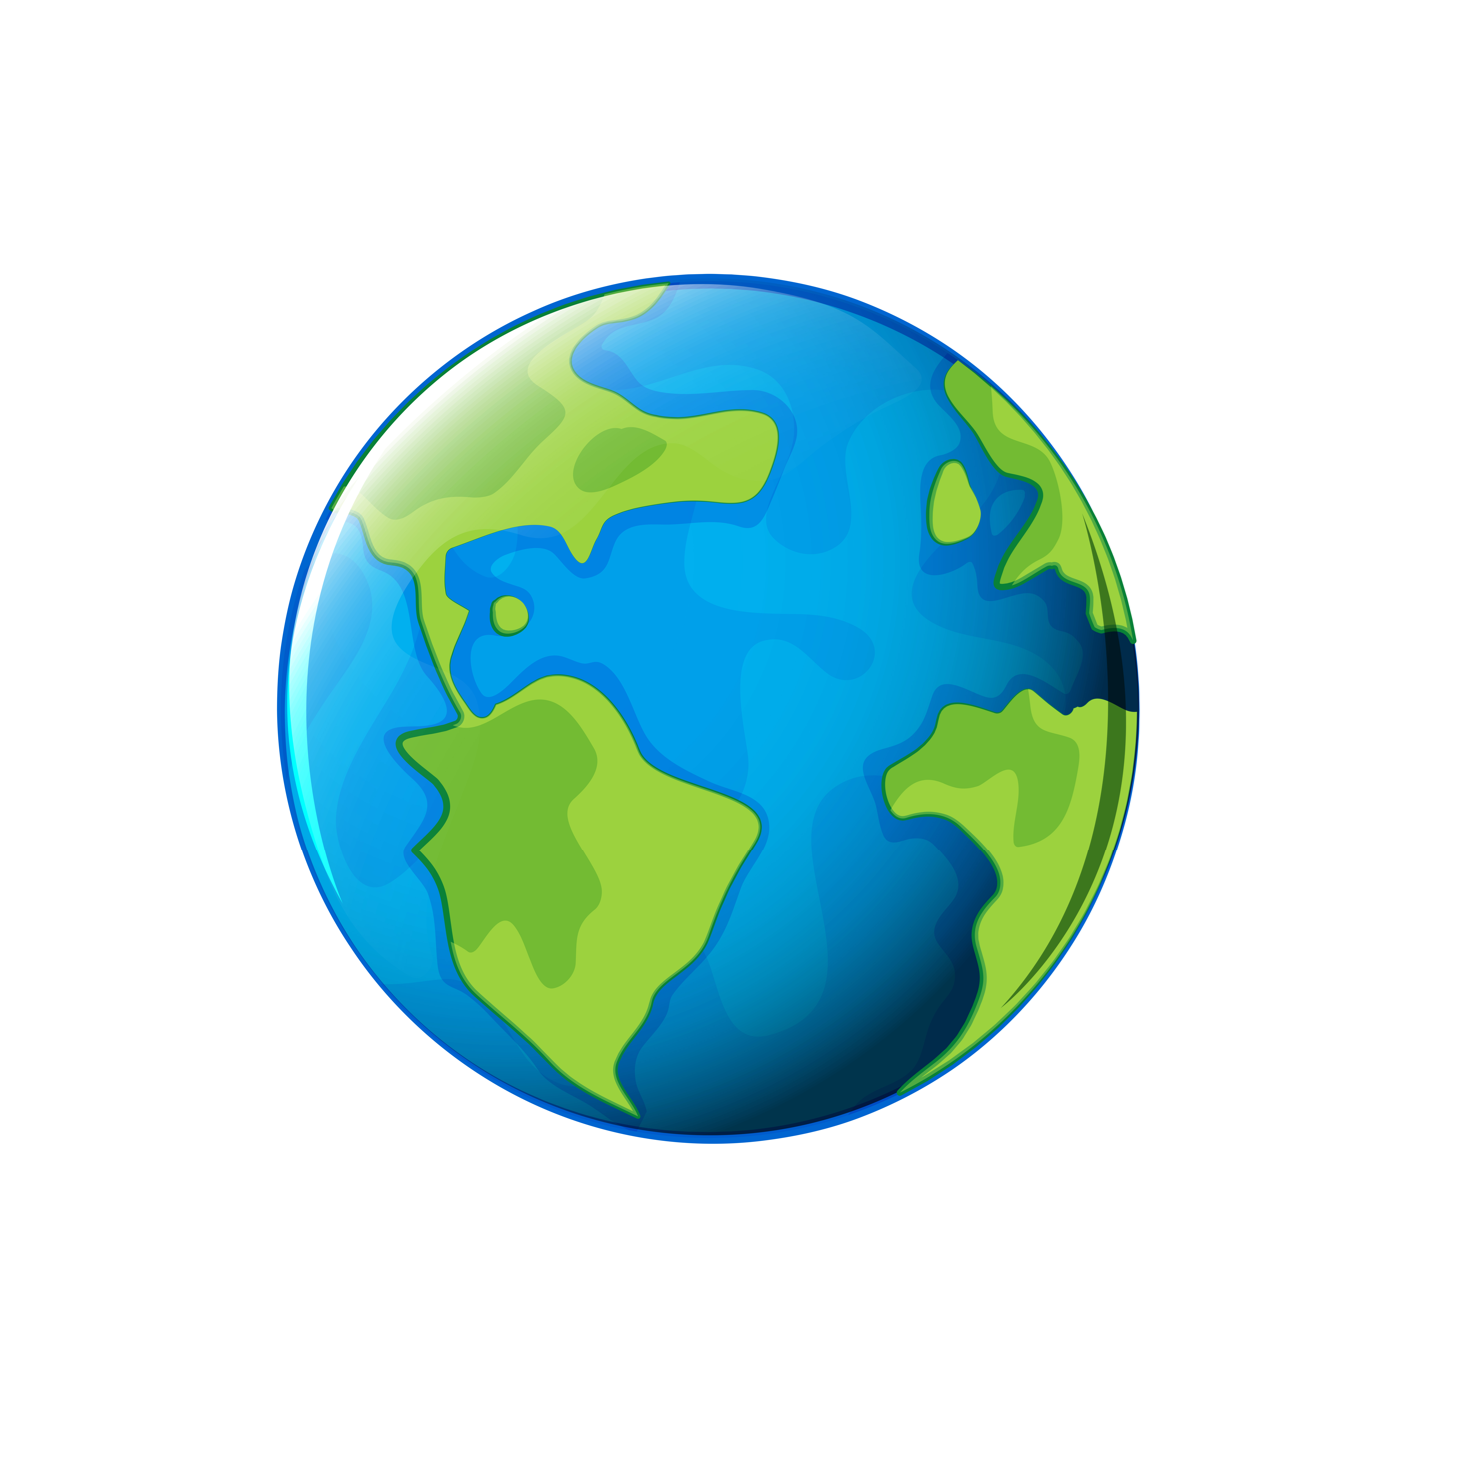
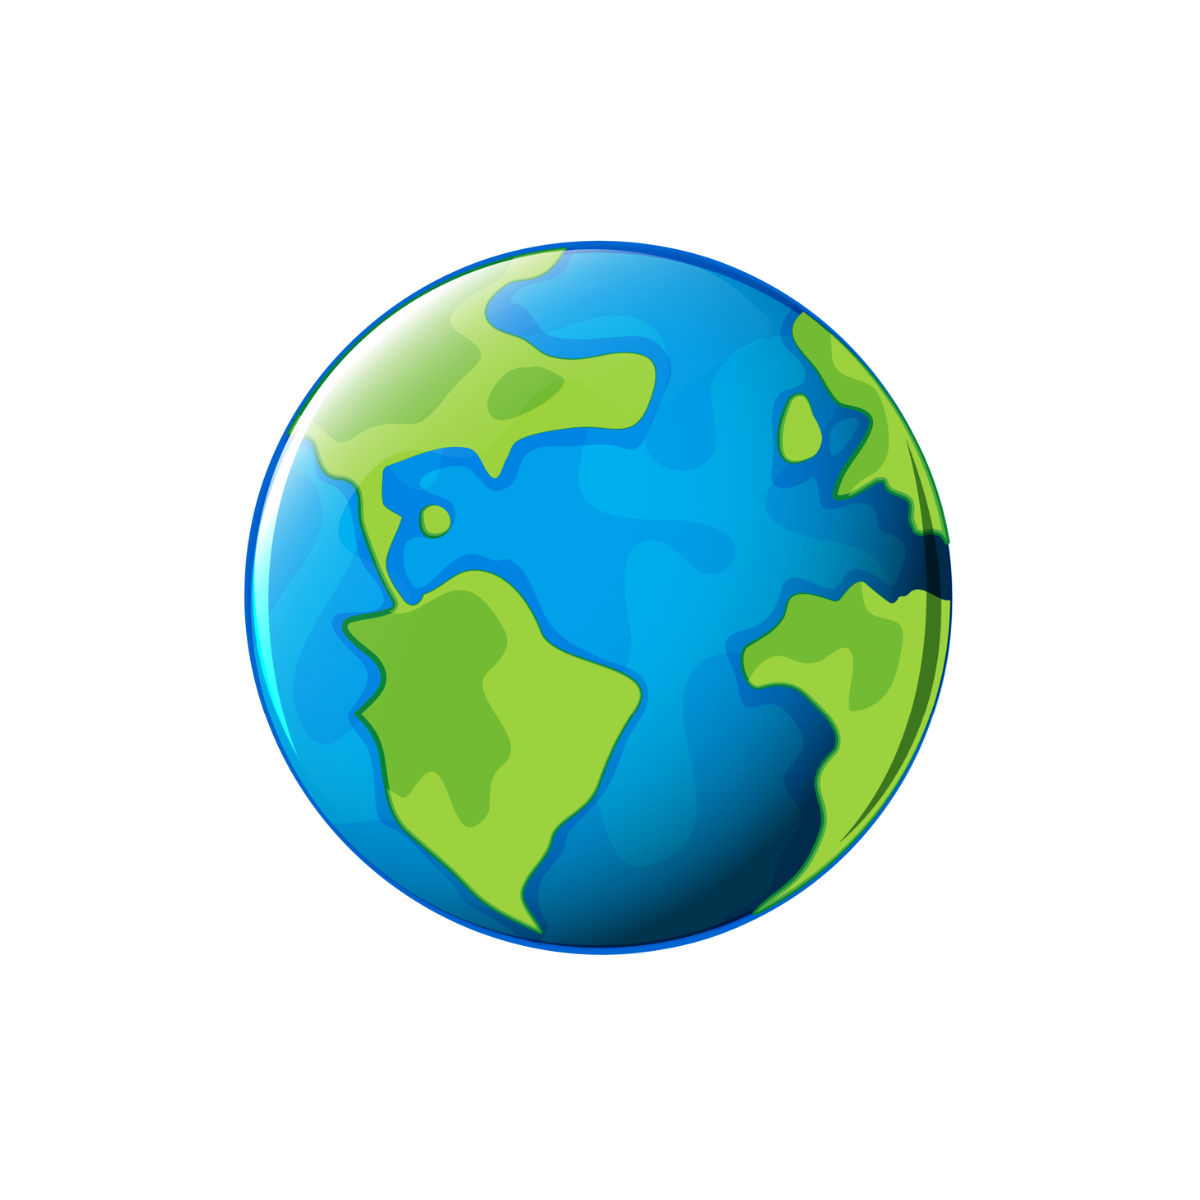
Placing ISS according to hours

Changed region(s): [[0.185, 0.185, 0.8017, 0.8017], [0.3083, 0.7092, 0.3392, 0.74]]

diff --git a/script.js b/script.js
@@ -3,6 +3,7 @@
 const hoursDiv = document.querySelector('#hours');
 const minutesDiv = document.querySelector('#minutes');
 const secondsDiv = document.querySelector('#seconds');
+const issImage = document.querySelector('#iss');
 
 // init functions
 
@@ -12,7 +13,9 @@ function getClock() {
         let hours = currentTime.getHours();
         let minutes = currentTime.getMinutes();
         let seconds = currentTime.getSeconds();
-        
+
+        animClockIss(hours);
+
         hours = checkTime(hours);
         minutes = checkTime(minutes);
         seconds = checkTime(seconds);
@@ -29,6 +32,67 @@ function checkTime(x) {
     return x;
 }
 
+function animClockIss(hours) {
+    switch (hours) {
+        case 0:
+        case 12:
+            issImage.style.top = "0%";
+            break;
+        case 1:
+        case 13:
+            issImage.style.top = "5%";
+            issImage.style.right = "25%";
+            break;
+        case 2:
+        case 14:
+            issImage.style.top = "25%";
+            issImage.style.right = "5%";
+            break;
+        case 3:
+        case 15:
+            issImage.style.right = "0%";
+            break;
+        case 4:
+        case 16:
+            issImage.style.bottom = "25%";
+            issImage.style.right = "5%";
+            break;
+        case 5:
+        case 17:
+            issImage.style.bottom = "5%";
+            issImage.style.right = "25%";
+            break;
+        case 6:
+        case 18:
+            issImage.style.bottom = "0%";
+            break;
+        case 7:
+        case 19:
+            issImage.style.bottom = "5%";
+            issImage.style.left = "25%";
+            break;
+        case 8:
+        case 20:
+            issImage.style.bottom = "25%";
+            issImage.style.left = "5%";
+            break;
+        case 9:
+        case 21:
+            issImage.style.left = "0%";
+            break;
+        case 10:
+        case 22:
+            issImage.style.top = "25%";
+            issImage.style.left = "5%";
+            break;
+        case 11:
+        case 23:
+            issImage.style.top = "5%";
+            issImage.style.left = "25%";
+            break;
+    }
+}
+
 // async function getISSPosition() {
 //     const response =await fetch(url API);
 //     const coordinate = await response.json();
@@ -36,5 +100,4 @@ function checkTime(x) {
 
 
 // execute code
-
 getClock();

diff --git a/style.css b/style.css
@@ -8,9 +8,9 @@
     min-height: 200px;
     background-position: center;
     flex-direction: column;
-    justify-content: center; /* //centre tt les éléments verticalement */
+    justify-content: center; /* centre tous les éléments verticalement */
     align-items: center; /* aligne les éléments horizontalement */
-    
+    position : relative;
 }
 
 .clock {
@@ -20,13 +20,11 @@
 }
 
 p {
-    color: aliceblue;
+    color: rgb(255, 255, 255);
     margin: 2px;
 }
 
-.iss {
-    position:relative;
+#iss {
     width: 15%;
-    top: 50%; left: 0%;
-    
+    position: absolute;
  }

diff --git a/index.html b/index.html
@@ -13,13 +13,8 @@
     <nav id="nav-bar">
         <h1>Où est l'ISS ?</h1>
     </nav>
-
-
-
     <div class="bigClock">
-
-        <img class="iss" src="image/ISS.png" alt="icône de l'ISS">
-
+        <img id="iss" src="image/ISS.png" alt="icône de l'ISS">
         <div class="clock">
             <p id="hours"></p>
             <p class="separator">:</p>
@@ -28,7 +23,6 @@
             <p id="seconds"></p>
         </div>
     </div>
-
 </body>
 
 </html>
